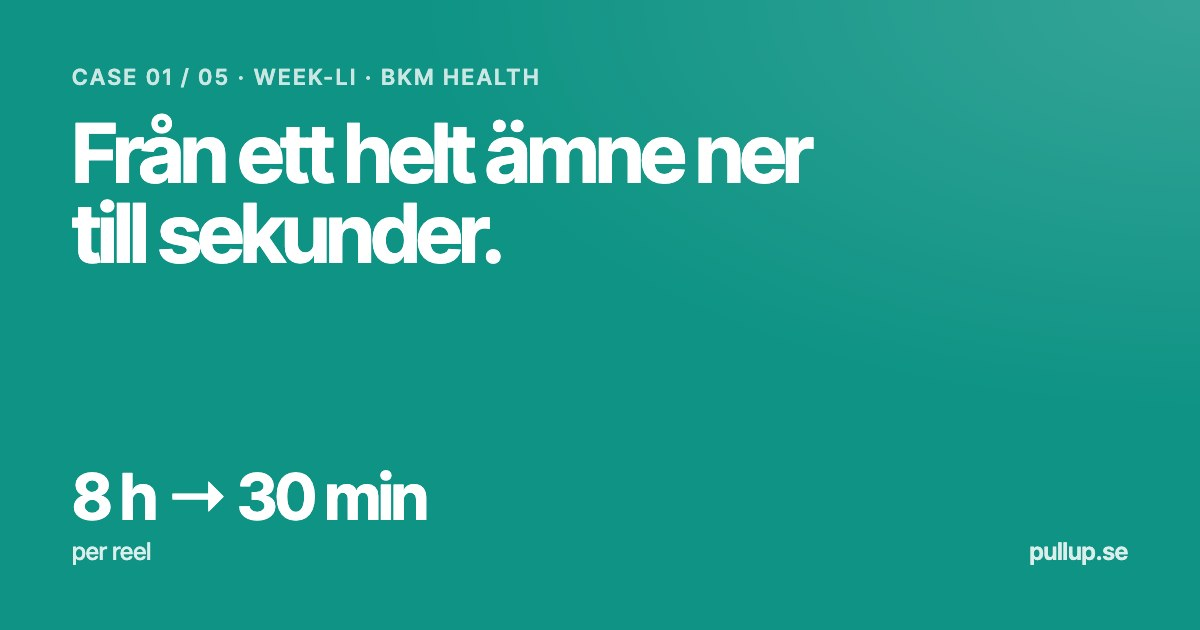
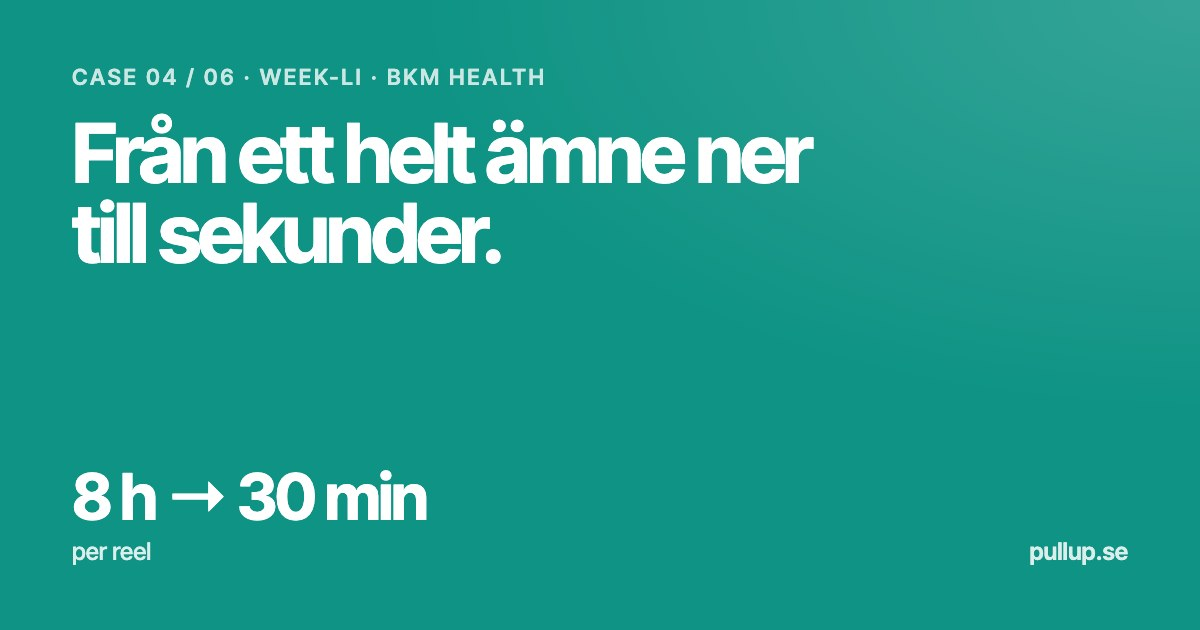
Case: Way Out West — 30 TikToks in three days, 600,000+ views; cases ordered BKM, STIGA, Way Out West, Week-Li, Kaijas, Adam

Changed region(s): [[0.1233, 0.0905, 0.4625, 0.1508]]

diff --git a/frontend/src/components/agency/agencyData.js b/frontend/src/components/agency/agencyData.js
@@ -68,11 +68,87 @@ export const STIGA_ROWS = [
   { channel: "YouTube", views: 1100000, interactions: 13200, followers: 1200 },
 ];
 
+// Way Out West 2025 — every TikTok Felix filmed and edited over the three
+// festival days, views as TikTok showed them (screenshots, 2026-10-26),
+// highest first. Captions only where the clip carries one on screen.
+export const WOW_CLIPS = [
+  ["“U gotta slap to elevate the taste”", 100000], ["TikTok", 88900], ["TikTok", 50600], ["POV: doors open in less than 16h", 45200],
+  ["TikTok", 43600], ["TikTok", 30400], ["5 food vendors not to miss at WOW 2025", 28900], ["TikTok", 28600],
+  ["TikTok", 28300], ["TikTok", 26600], ["TikTok", 18700], ["TikTok", 12400], ["Azalea just woke up", 11800],
+  ["Outfit check 2025", 11000], ["TikTok", 10700], ["Aura farmer lvl", 9167], ["The welcoming choir sings the clouds away", 8304],
+  ["The feeling when that last bajamaja is ✅", 7369], ["The speakers at Dungen", 6923], ["KNEECAP at Way Out West 2025", 6632],
+  ["Have you found the 3 hidden bars?", 5907], ["TikTok", 5565], ["POV: when the artist makes sure you're fed before the show", 4868],
+  ["TikTok", 4699], ["TikTok", 4569], ["TikTok", 4424], ["Meet DJ Rawel and…", 4304], ["TikTok", 4151], ["TikTok", 2911], ["TikTok", 2473],
+];
+
 // The case registry — order here = order everywhere (landing, footer, the
 // rail on every case page, "next story"). `series: false` would keep a page
 // live without numbering it. Every claim: Felix's brief; STIGA traces to the
-// Growhouse report (1 Dec 2024 – 30 Jun 2025); Adam Flambo to his rooms.
+// Growhouse report (1 Dec 2024 – 30 Jun 2025); Way Out West to the TikTok
+// views (WOW_CLIPS); Adam Flambo to his rooms. Order: Felix 2026-10-26.
 export const CASES = [
+  {
+    slug: "bkm",
+    client: "BKM",
+    name: "BKM Health",
+    kicker: "Brand · Health",
+    color: "#B7791F",
+    // Never call the followers organic — not all of them were (Felix 2026-10-21).
+    title: "One red thread, from vision to every post.",
+    // Tolga is THE founder in everything we write (Felix 2026-10-21).
+    who: "Tolga Duran, BKM's founder, with a vision and no audience.",
+    gained: "A vision and a strategy, built together, that every sprint, event and story followed.",
+    brand: "10,000+ followers in one year, several million views across channels — and sales and subscriptions growing exponentially.",
+    score: ["10,000+", "followers in one year, from zero"],
+    chart: { type: "grow", from: ["0", "followers at the start"], to: ["10,000+", "followers now"], note: "Sales and subscriptions: growing exponentially" },
+    spine: {
+      start: "Tolga Duran, BKM's founder, with a vision and no audience.",
+      did: "Vision and strategy as one red thread, worked out together — and kept moving by 30-minute sprints.",
+      made: "A community post the same day as every event, and a flow that let the ambassadors tell deep stories.",
+      result: "10,000+ followers in one year and several million views across channels — with sales and subscriptions growing exponentially.",
+    },
+    stats: [["10,000+", "followers in one year"], ["Millions", "of views across channels"], ["Exponential", "growth in sales and subscriptions", true]],
+  },
+  {
+    slug: "stiga",
+    client: "STIGA",
+    name: "STIGA Table Tennis",
+    kicker: "Brand · Sport",
+    color: "#2563EB",
+    title: "28 million views in seven months.",
+    who: "A global sports brand with decades of history — and talent already in the building.",
+    gained: "In-house talents became faces fans follow, each with a persona and a story.",
+    brand: "28.1M views and +32,000 followers in seven months.",
+    score: ["28.1M", "views in seven months"],
+    chart: { type: "channels" },
+    spine: {
+      start: "A global sports brand with decades of history.",
+      did: "Introduced in-house talents and built personas and stories around them.",
+      made: "Short-form video and posts in the sport's own voice, on four channels.",
+      result: "28.1M views and +32,000 followers in seven months.",
+    },
+    stats: [["28.1M", "views"], ["+32,000", "followers"], ["335,000", "interactions"], ["7 months", "Dec 2024 – Jun 2025"]],
+  },
+  {
+    slug: "way-out-west",
+    client: "Way Out West",
+    name: "Way Out West",
+    kicker: "Festival · TikTok",
+    color: "#15803D",
+    title: "30 TikToks in three days.",
+    who: "Way Out West: three days of music in Slottsskogen, Gothenburg — and a TikTok to keep up with it.",
+    gained: "The whole festival on TikTok while it happened — the shows, the people and the places in between.",
+    brand: "600,000+ views across 30 TikToks, the most-watched at 100,000.",
+    score: ["600,000+", "views on 30 TikToks"],
+    chart: { type: "clips", rows: WOW_CLIPS, note: "Half of them passed 10,000 views" },
+    spine: {
+      start: "Way Out West: three days of music in Slottsskogen, Gothenburg — and a TikTok to keep up with it.",
+      did: "Filming and editing for the festival's TikTok, on site all three days.",
+      made: "30 TikToks in three days — the shows, outfits, food, hidden bars and the moments before the doors open.",
+      result: "600,000+ views across 30 TikToks — the most-watched reached 100,000.",
+    },
+    stats: [["30", "TikToks"], ["3 days", "on site"], ["600,000+", "views"], ["100K", "on the most-watched", true]],
+  },
   {
     slug: "li-karlsen",
     client: "Week-Li",
@@ -97,28 +173,6 @@ export const CASES = [
     reel: true,
   },
   {
-    slug: "bkm",
-    client: "BKM",
-    name: "BKM Health",
-    kicker: "Brand · Health",
-    color: "#B7791F",
-    // Never call the followers organic — not all of them were (Felix 2026-10-21).
-    title: "One red thread, from vision to every post.",
-    // Tolga is THE founder in everything we write (Felix 2026-10-21).
-    who: "Tolga Duran, BKM's founder, with a vision and no audience.",
-    gained: "A vision and a strategy, built together, that every sprint, event and story followed.",
-    brand: "10,000+ followers in one year, several million views across channels — and sales and subscriptions growing exponentially.",
-    score: ["10,000+", "followers in one year, from zero"],
-    chart: { type: "grow", from: ["0", "followers at the start"], to: ["10,000+", "followers now"], note: "Sales and subscriptions: growing exponentially" },
-    spine: {
-      start: "Tolga Duran, BKM's founder, with a vision and no audience.",
-      did: "Vision and strategy as one red thread, worked out together — and kept moving by 30-minute sprints.",
-      made: "A community post the same day as every event, and a flow that let the ambassadors tell deep stories.",
-      result: "10,000+ followers in one year and several million views across channels — with sales and subscriptions growing exponentially.",
-    },
-    stats: [["10,000+", "followers in one year"], ["Millions", "of views across channels"], ["Exponential", "growth in sales and subscriptions", true]],
-  },
-  {
     slug: "kaijas",
     client: "Kaijas",
     name: "Kaijas Musiksalong",
@@ -137,26 +191,6 @@ export const CASES = [
       result: "Booked three months in advance.",
     },
     stats: [["3 months", "booked in advance"], ["4 nights", "of live music a week"], ["10,000+", "Instagram followers", true]],
-  },
-  {
-    slug: "stiga",
-    client: "STIGA",
-    name: "STIGA Table Tennis",
-    kicker: "Brand · Sport",
-    color: "#2563EB",
-    title: "28 million views in seven months.",
-    who: "A global sports brand with decades of history — and talent already in the building.",
-    gained: "In-house talents became faces fans follow, each with a persona and a story.",
-    brand: "28.1M views and +32,000 followers in seven months.",
-    score: ["28.1M", "views in seven months"],
-    chart: { type: "channels" },
-    spine: {
-      start: "A global sports brand with decades of history.",
-      did: "Introduced in-house talents and built personas and stories around them.",
-      made: "Short-form video and posts in the sport's own voice, on four channels.",
-      result: "28.1M views and +32,000 followers in seven months.",
-    },
-    stats: [["28.1M", "views"], ["+32,000", "followers"], ["335,000", "interactions"], ["7 months", "Dec 2024 – Jun 2025"]],
   },
   {
     slug: "adam-flambo",

diff --git a/frontend/src/components/agency/i18n/sv.js b/frontend/src/components/agency/i18n/sv.js
@@ -1273,4 +1273,44 @@ export const SV = {
   "Sales and subscriptions grew exponentially alongside. The journey was the marketing. Li's own format for BKM, Week-Li, is a story of its own.": "Försäljning och prenumerationer växte exponentiellt samtidigt. Resan var marknadsföringen. Lis eget format för BKM, Week-Li, är en egen story.",
   "Week-Li: BKM's format with Li": "Week-Li: BKM:s format med Li",
   "Address copied \u2014 paste it into your email": "Adressen kopierad – klistra in den i ditt mejl",
+  // Way Out West
+  "Festival · TikTok": "Festival · TikTok",
+  "30 TikToks in three days.": "30 TikToks på tre dagar.",
+  "The whole festival on TikTok while it happened — the shows, the people and the places in between.": "Hela festivalen på TikTok medan den pågick – konserterna, människorna och allt däremellan.",
+  "600,000+ views across 30 TikToks, the most-watched at 100,000.": "600 000+ visningar på 30 TikToks, den mest sedda på 100 000.",
+  "600,000+": "600 000+",
+  "views on 30 TikToks": "visningar på 30 TikToks",
+  "Half of them passed 10,000 views": "Hälften passerade 10 000 visningar",
+  "Way Out West: three days of music in Slottsskogen, Gothenburg — and a TikTok to keep up with it.": "Way Out West: tre dagar musik i Slottsskogen i Göteborg – och ett TikTok-konto som skulle hänga med.",
+  "Filming and editing for the festival's TikTok, on site all three days.": "Filmning och redigering för festivalens TikTok, på plats alla tre dagarna.",
+  "30 TikToks in three days — the shows, outfits, food, hidden bars and the moments before the doors open.": "30 TikToks på tre dagar – konserter, outfits, mat, gömda barer och stunderna innan grindarna öppnar.",
+  "600,000+ views across 30 TikToks — the most-watched reached 100,000.": "600 000+ visningar på 30 TikToks – den mest sedda nådde 100 000.",
+  "TikToks": "TikToks",
+  "3 days": "3 dagar",
+  "on site": "på plats",
+  "100K": "100 000",
+  "on the most-watched": "på den mest sedda",
+  "Views per TikTok, all {n}": "Visningar per TikTok, alla {n}",
+  "Way Out West is three days of music in Slottsskogen, Gothenburg. I handled filming and editing for the festival's TikTok — 30 TikToks in three days, and more than 600,000 views.": "Way Out West är tre dagar musik i Slottsskogen i Göteborg. Jag skötte filmning och redigering för festivalens TikTok – 30 TikToks på tre dagar, och mer än 600 000 visningar.",
+  "30 TikToks": "30 TikToks",
+  "The mix": "Mixen",
+  "Every clip": "Varje klipp",
+  "30 TikToks, every one counted.": "30 TikToks, vartenda ett räknat.",
+  "Each column is one TikTok from the festival, highest first. The most-watched reached 100,000 — and half of them passed 10,000.": "Varje stapel är en TikTok från festivalen, högst först. Den mest sedda nådde 100 000 – och hälften passerade 10 000.",
+  "Thirty columns, one per TikTok, from 100,000 views down to about 2,500": "Trettio staplar, en per TikTok, från 100 000 visningar ner till runt 2 500",
+  "Views per TikTok as shown on TikTok, October 2026 — 617,966 in all. Hover a column for the clip.": "Visningar per TikTok enligt TikTok, oktober 2026 – 617 966 totalt. Håll över en stapel för att se klippet.",
+  "The whole festival, not just the line-up.": "Hela festivalen, inte bara line-upen.",
+  "Filmed and edited on site, all three days. The shows were only part of it — the people, the food and the places in between were what made people stay.": "Filmat och redigerat på plats, alla tre dagarna. Konserterna var bara en del – människorna, maten och platserna däremellan var det som fick folk att stanna.",
+  "The shows": "Konserterna",
+  "The artists up close and the crowd around them — from Kneecap to the smaller stages.": "Artisterna på nära håll och publiken runt dem – från Kneecap till de mindre scenerna.",
+  "Outfit checks, the welcoming choir and the food vendors themselves, in their own words.": "Outfit checks, välkomstkören och matförsäljarna själva, med egna ord.",
+  "The guide": "Guiden",
+  "Five food vendors not to miss, three hidden bars, the speakers at Dungen.": "Fem matställen du inte får missa, tre gömda barer, högtalarna vid Dungen.",
+  "Before the doors": "Innan grindarna",
+  "The stages waking up and the crew rigging — the festival before anyone gets in.": "Scenerna som vaknar och crewet som riggar – festivalen innan någon kommit in.",
+  "Three days, 30 TikToks — and more than 600,000 views.": "Tre dagar, 30 TikToks – och mer än 600 000 visningar.",
+  "The festival on TikTok while it was happening. The same idea as every story here: live it in public, and people follow.": "Festivalen på TikTok medan den pågick. Samma idé som i varje story här: lev det öppet, så följer folk med.",
+  "15 of 30": "15 av 30",
+  "passed 10,000 views": "passerade 10 000 visningar",
+  "STIGA: 28 million views in seven months": "STIGA: 28 miljoner visningar på sju månader",
 };

diff --git a/frontend/src/pages/stories/data/way-out-west.jsx b/frontend/src/pages/stories/data/way-out-west.jsx
@@ -1,0 +1,59 @@
+import { Columns, Outcome, Steps } from "../../../components/agency/story/StoryKit.jsx";
+import { WOW_CLIPS } from "../../../components/agency/agencyData.js";
+
+/* Way Out West 2025 — Felix handled filming and editing for the festival's
+   TikTok, on site all three days. Facts: 30 TikToks in three days; views as
+   TikTok showed them on 2026-10-26 (WOW_CLIPS), 617,966 in all — say
+   "600,000+"; the most-watched at 100K; 15 of 30 passed 10,000. The mix is
+   read off the clips' own on-screen captions. No photographs. */
+
+const sek = (v) => v.toLocaleString("sv-SE");
+
+export default {
+  slug: "way-out-west",
+  theme: { surface: "#123A24", mid: "#0D2B1B", deep: "#081D12", abyss: "#040F09", a: "#2FA35E", ai: "#7EDBA2", b: "#E0A23A", glow: "47,163,94" },
+  hero: {
+    sub: "Way Out West is three days of music in Slottsskogen, Gothenburg. I handled filming and editing for the festival's TikTok — 30 TikToks in three days, and more than 600,000 views.",
+    facts: [["30", "TikToks"], ["3 days", "on site"], ["600,000+", "views"]],
+  },
+  chapters: [["top", "Way Out West"], ["clips", "30 TikToks"], ["mix", "The mix"], ["result", "Result"]],
+  blocks: [
+    {
+      type: "band", anchor: "clips", tone: "mid", layout: "stack", tight: true, section: "figure_clips", order: 10,
+      k: "Every clip", h: "30 TikToks, every one counted.",
+      body: "Each column is one TikTok from the festival, highest first. The most-watched reached 100,000 — and half of them passed 10,000.",
+      node: (
+        <Columns
+          rows={WOW_CLIPS}
+          bare
+          fmt={sek}
+          unit="views"
+          aria="Thirty columns, one per TikTok, from 100,000 views down to about 2,500"
+          source="Views per TikTok as shown on TikTok, October 2026 — 617,966 in all. Hover a column for the clip."
+        />
+      ),
+    },
+    {
+      type: "band", anchor: "mix", tone: "deep", layout: "split-wide", tight: true, section: "figure_mix", order: 20,
+      k: "The mix", h: "The whole festival, not just the line-up.",
+      body: "Filmed and edited on site, all three days. The shows were only part of it — the people, the food and the places in between were what made people stay.",
+      node: (
+        <Steps
+          items={[
+            ["01", "The shows", "The artists up close and the crowd around them — from Kneecap to the smaller stages."],
+            ["02", "The people", "Outfit checks, the welcoming choir and the food vendors themselves, in their own words."],
+            ["03", "The guide", "Five food vendors not to miss, three hidden bars, the speakers at Dungen."],
+            ["04", "Before the doors", "The stages waking up and the crew rigging — the festival before anyone gets in."],
+          ]}
+        />
+      ),
+    },
+    {
+      type: "band", anchor: "result", tone: "abyss", layout: "stack", tight: true, section: "result", order: 30,
+      k: "The result",
+      h: "Three days, 30 TikToks — and more than 600,000 views.",
+      body: "The festival on TikTok while it was happening. The same idea as every story here: live it in public, and people follow.",
+      node: <Outcome facts={[["600,000+", "views"], ["100K", "on the most-watched"], ["15 of 30", "passed 10,000 views"]]} link={["STIGA: 28 million views in seven months", "stiga"]} />,
+    },
+  ],
+};

diff --git a/frontend/src/components/agency/story/StoryKit.jsx b/frontend/src/components/agency/story/StoryKit.jsx
@@ -406,24 +406,26 @@ export function ChannelBars({ rows, metrics, source }) {
   );
 }
 
-/* Ordered columns (events in sequence), one series, hover for the value. */
-export function Columns({ rows, unit, source, aria }) {
+/* Ordered columns (events in sequence), one series, hover for the value.
+   `bare` drops the per-column value and label — for many thin columns, read
+   by hover; `fmt` formats the hovered value. */
+export function Columns({ rows, unit, source, aria, bare = false, fmt = (v) => v }) {
   const t = useT();
   const [hover, setHover] = useState(null);
   const [ref, seen] = useSeen();
   const max = Math.max(...rows.map((r) => r[1]));
   return (
     <div className={`sy-cols-wrap${seen ? " is-on" : ""}`} ref={ref}>
-      <div className="sy-cols" role="img" aria-label={t(aria)} onMouseLeave={() => setHover(null)}>
+      <div className={`sy-cols${bare ? " is-bare" : ""}`} role="img" aria-label={t(aria)} onMouseLeave={() => setHover(null)}>
         {rows.map(([l, v], i) => (
           <div key={l} className={`sy-col${hover === i ? " is-hover" : ""}`} onMouseEnter={() => setHover(i)} onTouchStart={() => setHover(i)}>
-            <span className="sy-col-v">{v}</span>
-            <span className="sy-col-bar" style={{ height: seen ? `${(v / max) * 100}%` : 0, transitionDelay: `${i * 0.05}s` }} />
-            <span className="sy-col-l">{l}</span>
+            {!bare && <span className="sy-col-v">{v}</span>}
+            <span className="sy-col-bar" style={{ height: seen ? `${(v / max) * 100}%` : 0, transitionDelay: `${i * (bare ? 0.025 : 0.05)}s` }} />
+            {!bare && <span className="sy-col-l">{l}</span>}
           </div>
         ))}
       </div>
-      <p className="sy-source">{hover != null ? `${rows[hover][0]} · ${rows[hover][1]} ${t(unit)}` : t(source)}</p>
+      <p className="sy-source">{hover != null ? `${t(rows[hover][0])} · ${fmt(rows[hover][1])} ${t(unit)}` : t(source)}</p>
     </div>
   );
 }

diff --git a/frontend/src/components/agency/StoryChart.jsx b/frontend/src/components/agency/StoryChart.jsx
@@ -124,7 +124,26 @@ function Ahead({ months, note }) {
   );
 }
 
-const CHARTS = { time: Time, grow: Grow, channels: Channels, path: Path, walks: Walks, ahead: Ahead };
+// Every clip as one thin column, highest first — no labels, the shape is the point.
+function Clips({ rows, note }) {
+  const t = useT();
+  const max = Math.max(...rows.map((r) => r[1]));
+  return (
+    <figure className="sc">
+      <figcaption className="sc-cap">{t("Views per TikTok, all {n}", { n: rows.length })}</figcaption>
+      <div className="sc-cols is-bare">
+        {rows.map(([k, v], i) => (
+          <div key={`${k}-${i}`} className="sc-col is-hot">
+            <span className="sc-col-bar" style={{ "--h": v / max, "--i": i * 0.3 }} />
+          </div>
+        ))}
+      </div>
+      {note && <p className="sc-note">{t(note)}</p>}
+    </figure>
+  );
+}
+
+const CHARTS = { time: Time, grow: Grow, channels: Channels, path: Path, walks: Walks, ahead: Ahead, clips: Clips };
 
 export function StoryChart({ chart }) {
   const C = chart && CHARTS[chart.type];
@@ -161,6 +180,8 @@ export const STORY_CHART_CSS = `
   }
   .sc-cols .sc-col-bar { height: max(4px, calc(var(--h, 0) * (100% - 44px))); }
   .sc-col-bar.is-stub { height: 4px; }
+  .sc-cols.is-bare { gap: 2px; border-bottom: 1px solid #e4e4e1; }
+  .sc-cols.is-bare .sc-col-bar { height: max(3px, calc(var(--h, 0) * 100%)); border-radius: 3px 3px 0 0; }
   .sc-col.is-hot .sc-col-bar { background: var(--sc); }
   .sc-col-v { font-size: 15px; font-weight: 600; font-variant-numeric: tabular-nums; }
   .sc-grow .sc-col-v { font-size: clamp(22px, 2.4vw, 30px); letter-spacing: -0.03em; order: -1; }

diff --git a/frontend/src/components/agency/story/storyCss.js b/frontend/src/components/agency/story/storyCss.js
@@ -171,6 +171,7 @@ export const STORY_CSS = `
   .sy-col-bar { width: 100%; max-width: 44px; background: var(--sy-a); border-radius: 4px 4px 0 0; transition: height 0.9s cubic-bezier(0.16,1,0.3,1); }
   .sy-col.is-hover .sy-col-bar { background: var(--sy-ai); }
   .sy-col-v { font-size: 13px; font-variant-numeric: tabular-nums; color: var(--sy-ink-2); }
+  .sy-cols.is-bare { gap: 3px; border-bottom: 1px solid rgba(255,255,255,0.18); }
   .sy-col-l { font-size: 11px; color: var(--sy-ink-3); white-space: nowrap; border-top: 1px solid rgba(255,255,255,0.18); width: 100%; text-align: center; padding-top: 6px; }
 
   /* Li's edit desk on paper */

diff --git a/frontend/src/components/agency/CaseStack.jsx b/frontend/src/components/agency/CaseStack.jsx
@@ -185,9 +185,9 @@ export function CaseStack({ head }) {
   );
 }
 
-// The order and emphasis for this page: STIGA right after BKM, and Kaijas
+// The order and emphasis for this page (Felix 2026-10-26), and Kaijas
 // led by its people — artists, team and guests — not the room.
-const ORDER = ["li-karlsen", "bkm", "stiga", "kaijas", "adam-flambo"];
+const ORDER = ["bkm", "stiga", "way-out-west", "li-karlsen", "kaijas", "adam-flambo"];
 const MIX_EDIT = {
   kaijas: {
     score: ["Artists. Team. Guests.", "the brand was the people — never the room"],

diff --git a/frontend/src/components/agency/caseShare.js b/frontend/src/components/agency/caseShare.js
@@ -7,7 +7,7 @@ import { translate } from "./i18n.js";
    case-share plugin in vite.config.js (dist/work/<slug>.html) and by
    scripts/case-og-images.mjs (public/og/case-<slug>.jpg). Bump OG_VERSION
    when the images change, to get past Facebook's cache. */
-export const OG_VERSION = 1;
+export const OG_VERSION = 2;
 export const SITE = "https://pullup.se";
 
 const sv = (s) => translate("sv", s);

diff --git a/frontend/src/pages/stories/StoryRoute.jsx b/frontend/src/pages/stories/StoryRoute.jsx
@@ -9,6 +9,7 @@ const LOADERS = {
   bkm: () => import("./data/bkm.jsx"),
   kaijas: () => import("./data/kaijas.jsx"),
   stiga: () => import("./data/stiga.jsx"),
+  "way-out-west": () => import("./data/way-out-west.jsx"),
   "adam-flambo": () => import("./data/adam-flambo.jsx"),
 };
 
